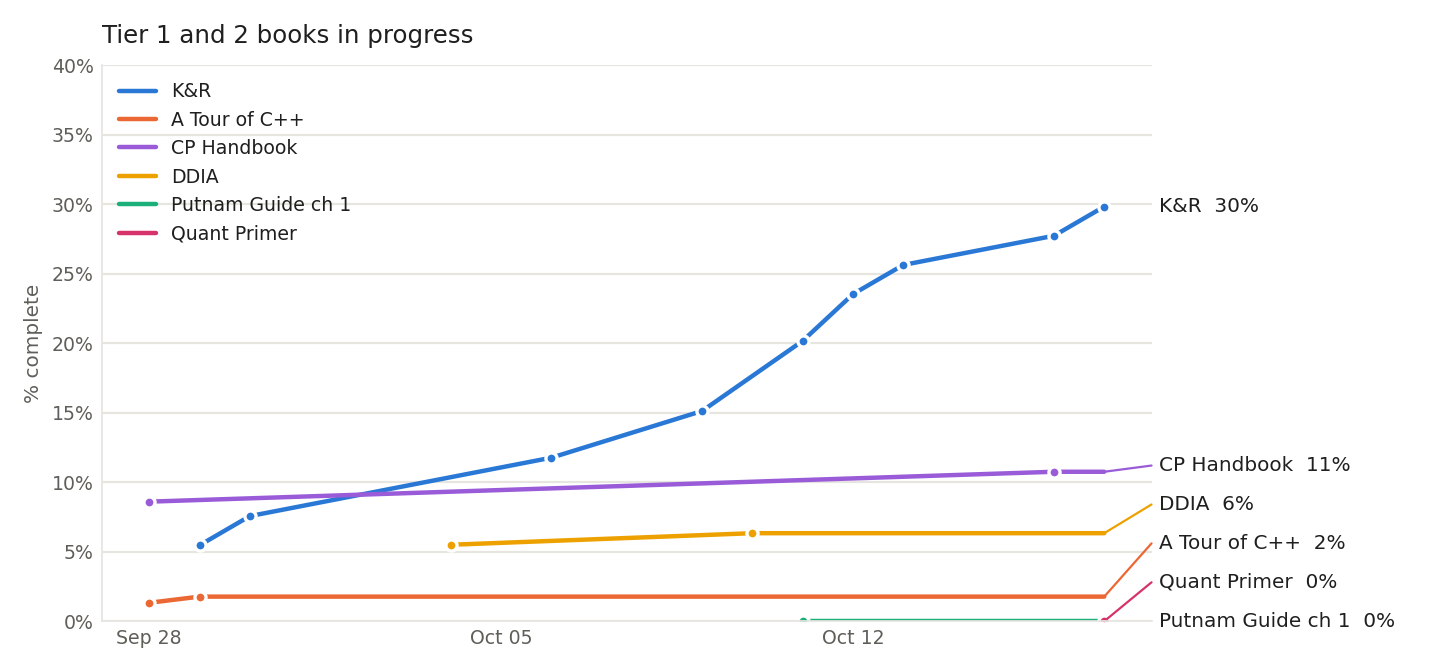
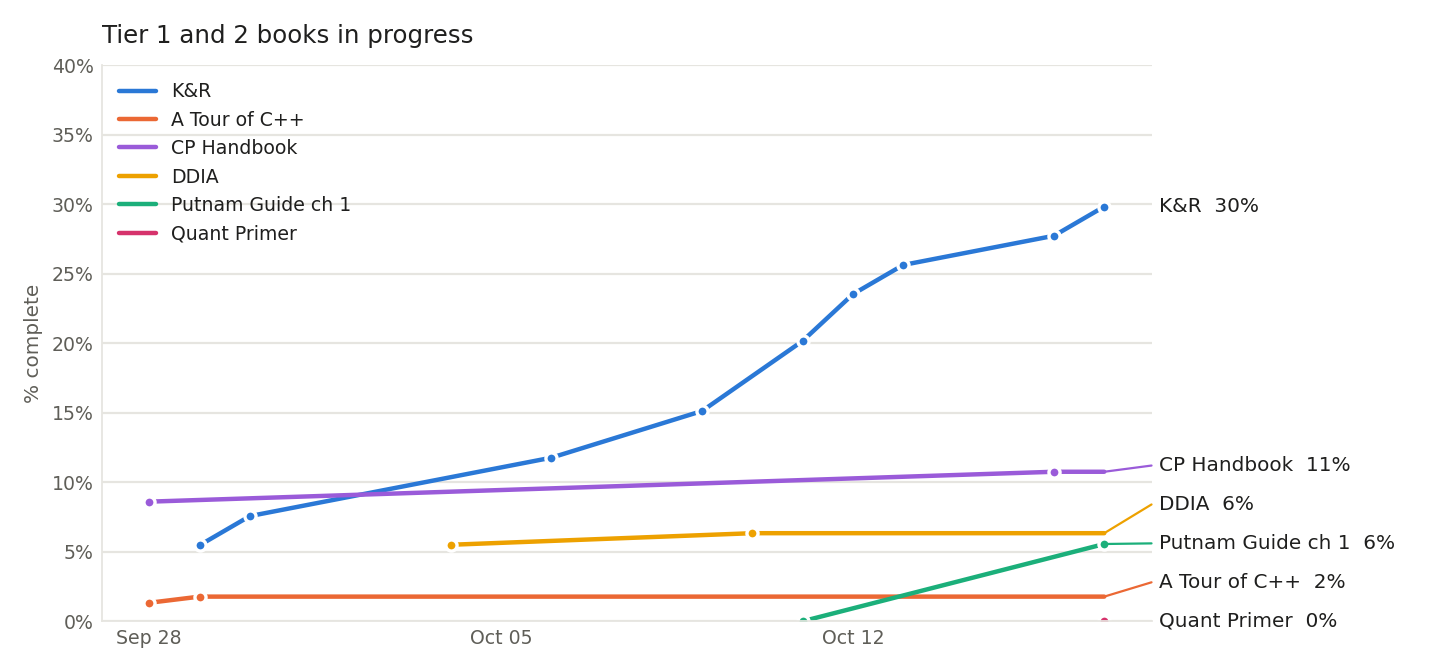
Log Putnam Guide ch 1 progress, 4 of 72 items after Session 1 lesson day
Definition 1.1 and Theorems 1.2 to 1.4 read and understood on 2026-10-17.
Record in the checklist where progress lives in the Putnam_Prep repo and
how the session sheets number theorems against the guide.

diff --git a/tracks/putnam-guide-ch1.md b/tracks/putnam-guide-ch1.md
@@ -9,11 +9,11 @@ Counts: 1 definition, 5 theorems, 13 worked examples, 1 strategies section, 52 e
 
 ## 1.1 Basics and 1.2 Important Theorems (read)
 
-- [ ] Definition 1.1. A set S is said to be countable if there is a bijection f : S → N. In other words, an infi
+- [x] Definition 1.1. A set S is said to be countable if there is a bijection f : S → N. In other words, an infi
 - [ ] Theorem 1.1 (Useful Identities). (a) an − bn = (a − b)(an−1 + an−2 b + · · · + abn−2 + bn−1 ).
-- [ ] Theorem 1.2. The sets N, Z, and Q are countable, and R is uncountable.
-- [ ] Theorem 1.3. Suppose A1 , A2 , A3 , . . . is a sequence of countable sets. Then
-- [ ] Theorem 1.4. Suppose A1 , A2 , . . . is a sequence of sets for which each Ai has at least 2 elements. T
+- [x] Theorem 1.2. The sets N, Z, and Q are countable, and R is uncountable.
+- [x] Theorem 1.3. Suppose A1 , A2 , A3 , . . . is a sequence of countable sets. Then
+- [x] Theorem 1.4. Suppose A1 , A2 , . . . is a sequence of sets for which each Ai has at least 2 elements. T
 - [ ] Theorem 1.5. If X is a countable set, then the set consisting of all finite subsets of X is also counta
 
 ## 1.3 and 1.4 Examples (read the solution after attempting)
@@ -93,4 +93,11 @@ Counts: 1 definition, 5 theorems, 13 worked examples, 1 strategies section, 52 e
 
 ## Log
 
-_(none yet)_
+Progress source: the Putnam repo at ~/Desktop/Putnam_Prep. Read logs/ch01_communication_tools.md (master tracker, running log
+at the bottom), logs/20*.tex (one daily log per study day), sessions/session0N.tex ("Resume here" marker), and
+sessions/session0N_writeup.tex (filled write-ups). Skip *_solutions.tex and putnamprep.sty. The session sheets number
+theorems 1 to 4 for the guide's 1.2 to 1.5; the guide's Theorem 1.1 (identities) is the sheet's "five algebraic identities".
+
+- 2026-10-17: Session 1 lesson day, about 90 min. Definition 1.1 and Theorems 1.2 to 1.4 read and understood (Cantor took an
+  hour; the 3-string game version landed). Resume 2026-10-18 at Theorem 1.5, then identities, then the four lesson exercises.
+  Session 2 not started. No exercises or write-ups yet. 4 of 72.

diff --git a/README.md b/README.md
@@ -19,7 +19,7 @@ Personal reading list across three tracks. Each track lives in its own file unde
 | A Tour of C++ | `░░░░░░░░░░░░░░░░░░░░` | 2% | 4 of 226 pages |
 | CP Handbook | `██░░░░░░░░░░░░░░░░░░` | 11% | 30 of 279 pages |
 | DDIA | `█░░░░░░░░░░░░░░░░░░░` | 6% | 38 of 600 pages |
-| Putnam Guide ch 1 | `░░░░░░░░░░░░░░░░░░░░` | 0% | 0 of 72 items |
+| Putnam Guide ch 1 | `█░░░░░░░░░░░░░░░░░░░` | 6% | 4 of 72 items |
 | Quant Primer | `░░░░░░░░░░░░░░░░░░░░` | 0% | 0 of 92 pages |
 <!-- progress:end -->
 

diff --git a/tracks/putnam-cp.md b/tracks/putnam-cp.md
@@ -22,6 +22,7 @@
   clean written solutions at the one-or-two-a-week cadence, not clearing the list. Chapter 1 target is end of 2026.
   Later chapters are bits and pieces by topic, not cover to cover. This is the Putnam Guide's share of the six-book goal in the README.
   Log: 2026-10-11 started, 0 of 72.
+  2026-10-17: first study session; Definition 1.1 and Theorems 1.2 to 1.4 understood, 4 of 72. Resuming at Theorem 1.5 on 2026-10-18.
 
 ## Done
 
